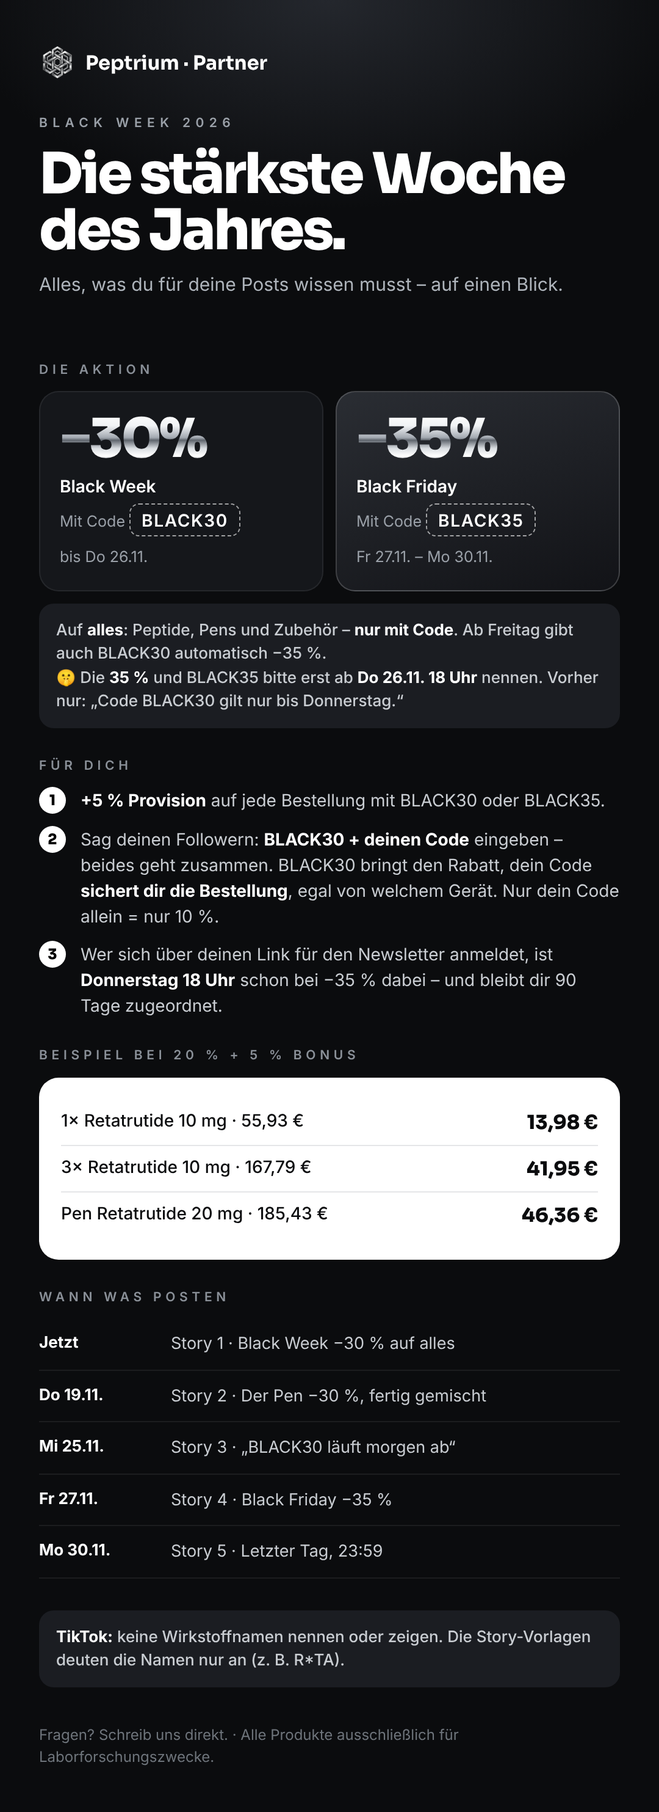
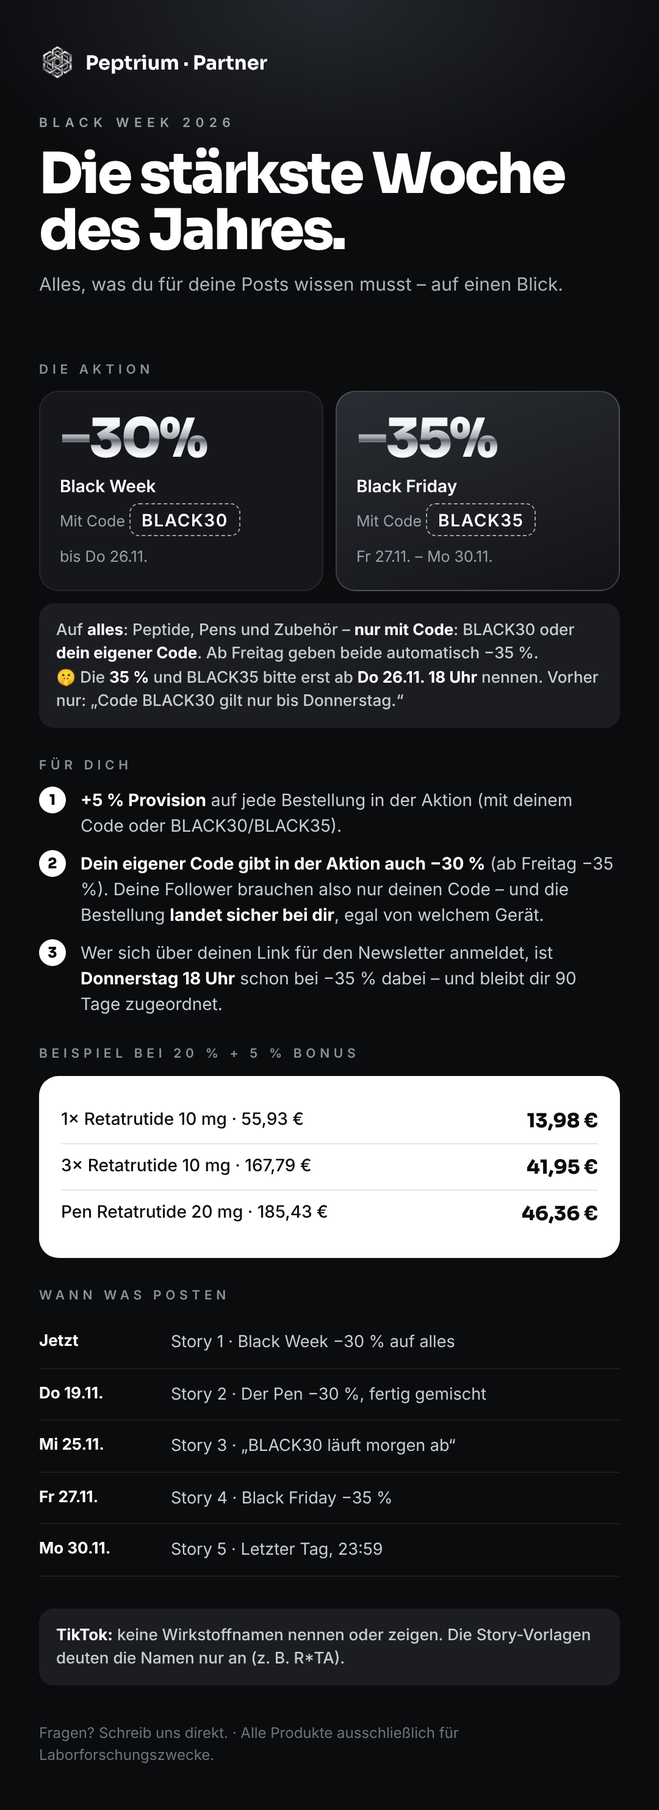
Black Week: Partner-Codes geben Aktionsrabatt
Claude-Session: https://claude.ai/code/session_011YY7DBkbr5BcFGKyLoSbVN

Changed region(s): [[0.1222, 0.4345, 0.9472, 0.5587], [0.0917, 0.3414, 0.8556, 0.4035], [0.0611, 0.4345, 0.0917, 0.4966]]

diff --git a/drafts/blackweek-2026-11-16/partner/info.html b/drafts/blackweek-2026-11-16/partner/info.html
@@ -23,8 +23,8 @@ h1{font:800 46px/1 Sora;letter-spacing:-.04em;margin-top:12px}
 </style></head><body>
 <div class="hd"><div class="lg"><img src="logo.png">Peptrium · Partner</div><div class="ey">BLACK WEEK 2026</div><h1>Die stärkste Woche<br>des Jahres.</h1><div class="sub">Alles, was du für deine Posts wissen musst – auf einen Blick.</div></div>
 <div class="sec"><h2>DIE AKTION</h2><div class="ph"><div class="c"><div class="n chrome">−30%</div><b>Black Week</b><span>Mit Code <b style="display:inline-block;margin:6px 0 4px;border:1.5px dashed rgba(255,255,255,.6);border-radius:8px;padding:4px 9px;color:#fff;letter-spacing:.06em">BLACK30</b><br>bis Do 26.11.</span></div><div class="c hot"><div class="n chrome">−35%</div><b>Black Friday</b><span>Mit Code <b style="display:inline-block;margin:6px 0 4px;border:1.5px dashed rgba(255,255,255,.6);border-radius:8px;padding:4px 9px;color:#fff;letter-spacing:.06em">BLACK35</b><br>Fr 27.11. – Mo 30.11.</span></div></div>
-<div class="note">Auf <b>alles</b>: Peptide, Pens und Zubehör – <b>nur mit Code</b>. Ab Freitag gibt auch BLACK30 automatisch −35 %.<br>🤫 Die <b>35 %</b> und BLACK35 bitte erst ab <b>Do 26.11. 18 Uhr</b> nennen. Vorher nur: „Code BLACK30 gilt nur bis Donnerstag.“</div></div>
-<div class="sec"><h2>FÜR DICH</h2><div class="li"><div><i>1</i><span><b>+5 % Provision</b> auf jede Bestellung mit BLACK30 oder BLACK35.</span></div><div><i>2</i><span>Sag deinen Followern: <b>BLACK30 + deinen Code</b> eingeben – beides geht zusammen. BLACK30 bringt den Rabatt, dein Code <b>sichert dir die Bestellung</b>, egal von welchem Gerät. Nur dein Code allein = nur 10 %.</span></div><div><i>3</i><span>Wer sich über deinen Link für den Newsletter anmeldet, ist <b>Donnerstag 18 Uhr</b> schon bei −35 % dabei – und bleibt dir 90 Tage zugeordnet.</span></div></div></div>
+<div class="note">Auf <b>alles</b>: Peptide, Pens und Zubehör – <b>nur mit Code</b>: BLACK30 oder <b>dein eigener Code</b>. Ab Freitag geben beide automatisch −35 %.<br>🤫 Die <b>35 %</b> und BLACK35 bitte erst ab <b>Do 26.11. 18 Uhr</b> nennen. Vorher nur: „Code BLACK30 gilt nur bis Donnerstag.“</div></div>
+<div class="sec"><h2>FÜR DICH</h2><div class="li"><div><i>1</i><span><b>+5 % Provision</b> auf jede Bestellung in der Aktion (mit deinem Code oder BLACK30/BLACK35).</span></div><div><i>2</i><span><b>Dein eigener Code gibt in der Aktion auch −30 %</b> (ab Freitag −35 %). Deine Follower brauchen also nur deinen Code – und die Bestellung <b>landet sicher bei dir</b>, egal von welchem Gerät.</span></div><div><i>3</i><span>Wer sich über deinen Link für den Newsletter anmeldet, ist <b>Donnerstag 18 Uhr</b> schon bei −35 % dabei – und bleibt dir 90 Tage zugeordnet.</span></div></div></div>
 <div class="sec"><h2>BEISPIEL BEI 20 % + 5 % BONUS</h2><div class="ex"><div class="r"><span>1× Retatrutide 10 mg · 55,93 €</span><b>13,98 €</b></div><div class="r"><span>3× Retatrutide 10 mg · 167,79 €</span><b>41,95 €</b></div><div class="r"><span>Pen Retatrutide 20 mg · 185,43 €</span><b>46,36 €</b></div></div></div>
 <div class="sec tl"><h2>WANN WAS POSTEN</h2><div class="r"><span>Jetzt</span><div>Story 1 · Black Week −30 % auf alles</div></div><div class="r"><span>Do 19.11.</span><div>Story 2 · Der Pen −30 %, fertig gemischt</div></div><div class="r"><span>Mi 25.11.</span><div>Story 3 · „BLACK30 läuft morgen ab“</div></div><div class="r"><span>Fr 27.11.</span><div>Story 4 · Black Friday −35 %</div></div><div class="r"><span>Mo 30.11.</span><div>Story 5 · Letzter Tag, 23:59</div></div></div>
 <div class="sec"><div class="note"><b>TikTok:</b> keine Wirkstoffnamen nennen oder zeigen. Die Story-Vorlagen deuten die Namen nur an (z. B. R*TA).</div></div>

diff --git a/drafts/blackweek-2026-11-16/plugin/sp-blackweek.php b/drafts/blackweek-2026-11-16/plugin/sp-blackweek.php
@@ -59,14 +59,29 @@ function sp_bw_code_pct($code) {
     if ($code === 'black30') return $ph === 'bf' ? 35 : 30;
     return 0;
 }
-/** Prozent des BW-Codes im Warenkorb (0 = kein Code drin). */
-function sp_bw_cart_pct($cart = null) {
+/** 2026-11-18 (user): Partner-Codes (Coupon-Meta _sp_affiliate_id) geben in der Aktion denselben Rabatt wie BLACK30. */
+function sp_bw_is_partner_code($c) {
+    static $m = [];
+    $code = wc_strtolower(is_object($c) ? $c->get_code() : (string) $c);
+    if (!isset($m[$code])) { $id = wc_get_coupon_id_by_code($code); $m[$code] = $id && get_post_meta($id, '_sp_affiliate_id', true) && get_post_meta($id, 'discount_type', true) === 'percent'; }
+    return $m[$code];
+}
+/** Aktions-Prozent eines Codes (BLACK30/35 oder Partner-Code), 0 = kein Aktionscode. */
+function sp_bw_type_pct($c) {
+    if (sp_bw_is_code($c)) return sp_bw_code_pct(is_object($c) ? $c->get_code() : $c);
+    if (sp_bw_is_partner_code($c)) return sp_bw_code_pct('black30');
+    return 0;
+}
+/** [Prozent, Code] des besten Aktionscodes im Warenkorb. */
+function sp_bw_cart_best($cart = null) {
     if (!$cart && function_exists('WC') && WC()->cart) $cart = WC()->cart;
-    if (!$cart) return 0;
-    $best = 0;
-    foreach ($cart->get_applied_coupons() as $c) if (sp_bw_is_code($c)) $best = max($best, sp_bw_code_pct($c));
+    $best = [0, ''];
+    if (!$cart) return $best;
+    foreach ($cart->get_applied_coupons() as $c) { $p = sp_bw_type_pct($c); if ($p > $best[0]) $best = [$p, $c]; }
     return $best;
 }
+/** Prozent des Aktionscodes im Warenkorb (0 = kein Code drin). */
+function sp_bw_cart_pct($cart = null) { return sp_bw_cart_best($cart)[0]; }
 function sp_bw_pct() { $p = sp_bw_phase(); return $p === 'bf' ? 35 : ($p === 'bw' ? 30 : 0); }
 function sp_bw_active() { return sp_bw_pct() > 0; }
 
@@ -124,13 +139,16 @@ function sp_bw_is_credit($coupon) {
 }
 add_filter('woocommerce_coupon_get_discount_amount', function ($amount, $discounting, $cart_item, $single, $coupon) {
     if (!is_array($cart_item)) return $amount;
-    if (sp_bw_is_code($coupon)) return sp_bw_item_ok($cart_item) ? $amount : 0;   // BW-Code nicht auf Geschenke/Abo
+    if (sp_bw_type_pct($coupon)) {                       // Aktionscode: nicht auf Geschenke/Abo, nur der beste zählt
+        if (!sp_bw_item_ok($cart_item)) return 0;
+        return wc_strtolower($coupon->get_code()) === wc_strtolower((string) sp_bw_cart_best()[1]) ? $amount : 0;
+    }
     return (sp_bw_cart_pct() && sp_bw_item_ok($cart_item) && !sp_bw_is_credit($coupon)) ? 0 : $amount;
 }, 60, 5);
 /* BW-Codes: Prozent je Phase, Gültigkeit */
 add_filter('woocommerce_coupon_get_amount', function ($amount, $coupon) {
-    if (!sp_bw_is_code($coupon)) return $amount;
-    $p = sp_bw_code_pct($coupon->get_code());
+    if (!sp_bw_is_code($coupon) && !sp_bw_is_partner_code($coupon)) return $amount;
+    $p = sp_bw_type_pct($coupon);
     return $p ?: $amount;
 }, 20, 2);
 add_filter('woocommerce_coupon_is_valid', function ($valid, $coupon) {
@@ -162,8 +180,8 @@ add_action('woocommerce_removed_coupon', function ($code) {
 add_filter('woocommerce_coupon_message', function ($msg, $code, $coupon) {
     if ($code !== WC_Coupon::WC_COUPON_SUCCESS || !$coupon) return $msg;
     if (!empty($GLOBALS['sp_bw_quiet'])) return '';
-    if (sp_bw_is_code($coupon)) return strtoupper($coupon->get_code()) . ' aktiv ✓ – −' . sp_bw_code_pct($coupon->get_code()) . ' % auf alles im Warenkorb.';
-    if (sp_bw_cart_pct() && !sp_bw_is_credit($coupon)) return 'Code gespeichert ✓ – mit dem Black-Week-Code gilt schon −' . sp_bw_cart_pct() . ' %, andere Codes zählen nicht zusätzlich.';
+    if (sp_bw_type_pct($coupon)) return strtoupper($coupon->get_code()) . ' aktiv ✓ – −' . sp_bw_type_pct($coupon) . ' % auf alles im Warenkorb.';
+    if (sp_bw_cart_pct() && !sp_bw_is_credit($coupon)) return 'Code gespeichert ✓ – mit dem Aktionscode gilt schon −' . sp_bw_cart_pct() . ' %, andere Codes zählen nicht zusätzlich.';
     return $msg;
 }, 60, 3);
 

diff --git a/drafts/blackweek-2026-11-16/plugin/sp-blackweek-vorschau.php b/drafts/blackweek-2026-11-16/plugin/sp-blackweek-vorschau.php
@@ -205,13 +205,13 @@ function drawer(){var dr=document.getElementById('sp-cart-drawer');if(!dr)return
  var m=Math.pow(10,(CART.totals||{}).currency_minor_unit||2),r=0,n=0;(CART.items||[]).forEach(function(i){if(+i.prices.price>0){r+=(+i.prices.regular_price)/m*i.quantity;n++;}});
  if(!n){if(box)box.remove();return;}
  var sub=document.getElementById('sp-cd-subtotal-row');if(box&&sub&&box.nextElementSibling!==sub){box.remove();box=null;}if(!box){box=document.createElement('div');box.className='bw-cbox';if(sub)sub.parentNode.insertBefore(box,sub);else it.parentNode.insertBefore(box,it.nextSibling);}
- var h,code=codeIn(CART);
+ var h,code=codeIn(CART);if(!code&&(CART.coupons||[]).length){var dd=(+CART.totals.total_discount+(+CART.totals.total_discount_tax||0))/m;if(dd>=r*PCT/100*0.97)code=String(CART.coupons[0].code).toUpperCase();}
  if(code){var d=(+CART.totals.total_discount+(+CART.totals.total_discount_tax||0))/m;h='<div class="bw-cb ok"><span class="ck">✓</span><div class="tx">'+code+' ist aktiv<small>−'+PCT+' % auf alles'+(d>0?' · du sparst '+fm(d):'')+'</small></div></div>';}
  else{var cur=(+CART.totals.total_items+(+CART.totals.total_items_tax||0)-(+CART.totals.total_discount||0)-(+CART.totals.total_discount_tax||0))/m;h='<div class="bw-cb miss"><div class="tx">Mit Code '+CODE+': '+fm(r*F)+'<small>statt '+fm(cur)+' – Code kopieren und oben bei „Rabattcode“ einfügen</small></div><button type="button" class="ap">Kopieren</button></div>';}
  if(box.dataset.h!==h){box.innerHTML=h;box.dataset.h=h;var b=box.querySelector('.ap');if(b)b.onclick=function(){copyCode();openCouponField();};}}
 /* --- Kasse: Hinweis, falls kein Code --- */
 function checkout(){var bl=document.querySelectorAll('.wp-block-woocommerce-checkout-order-summary-block');if(!bl.length||!window.wp||!wp.data)return;var d;try{d=wp.data.select('wc/store/cart').getCartData();}catch(e){return;}if(!d||!d.items)return;
- var has=!!codeIn(d),m=Math.pow(10,(d.totals||{}).currency_minor_unit||2),r=0;(d.items||[]).forEach(function(i){if(+i.prices.price>0)r+=(+i.prices.regular_price)/m*i.quantity;});
+ var has=!!codeIn(d),m=Math.pow(10,(d.totals||{}).currency_minor_unit||2),r=0;(d.items||[]).forEach(function(i){if(+i.prices.price>0)r+=(+i.prices.regular_price)/m*i.quantity;});if(!has&&(d.coupons||[]).length){var dd=(+(d.totals||{}).total_discount+(+(d.totals||{}).total_discount_tax||0))/m;has=dd>=r*PCT/100*0.97;}
  bl.forEach(function(b){var ft=b.querySelector('.wc-block-components-totals-footer-item');if(!ft)return;var w=ft.closest('.wc-block-components-totals-wrapper');var row=b.querySelector('.bw-co');if(!row&&w){row=document.createElement('div');row.className='bw-co';w.parentNode.insertBefore(row,w);}if(!row)return;
   if(has||r<=0){row.style.display='none';return;}row.style.display='';
   var h='<div><b>Mit Code '+CODE+' nur '+fm(r*F)+'</b><small>für die Artikel statt '+fm(r)+' – Code kopieren und bei „Gutschein hinzufügen“ einfügen.</small></div><button type="button" class="ap">Kopieren</button>';

diff --git a/CLAUDE.md b/CLAUDE.md
@@ -266,7 +266,7 @@ ones with established, understood behavior from this engagement. Run a
 | `sp-monatsbericht.php` | (2026-11-01, live, user: "stimmt alles so, bau es ein") **Peptrium Dashboard → Monatsbericht** (`admin.php?page=sp-monatsbericht`): month chips (from 2026-09), report preview in an iframe, "Per E-Mail senden" (several recipients, last one remembered in `sp_mb_last_email`, log `sp_mb_sent`), Fixkosten per month (option `sp_mb_fix` [Y-m => amount, note]; empty = 'vor Fixkosten'), optional auto-send on the 1st (option `sp_mb_auto` {on,to}, daily cron `sp_mb_daily` 08:00 Berlin, checks days 1–3, `sp_mb_auto_done`; OFF by default). `sp_mb_data($ym)` counts orders by **date_paid** (processing/completed/refunded, no `_sp_is_test`) via `sp_ek_order_figures()`: revenue/EK/commission/shipping+packaging → Gewinn; previous month comparison; Geld auf dem Konto = revenue − `sp_lager_purchases()` − `sp_aff_transfers` in month − shipping − fix; offen = orders CREATED in the month still on-hold/pending (dupe suspects skipped) + partner balance at month end (commissions paid/unpaid created before month end − transfers before month end); partner table, products by Rohertrag (top 8 + rest, names via `sp_mb_product_label()`, legacy GHK 68 → 1011), customers (new/returning, countries, visitors from wp_sp_stats, newsletter), coupons incl. negative referral fees, daily bars + weekly sums (Halloween days orange). `sp_mb_html($ym)` = email-safe HTML (also mail body). Assumptions confirmed by the user 2026-11-01: DHL 6,19/14,90 + 0,20 packaging, supplier purchases dated 18.10. October 2026: 56 paid orders, 10.946,49 €, Gewinn vor Fixkosten 7.570,75 €. Drafts/generator in `drafts/monatsbericht-2026-11-01/`. |
 | `sp-ausverkauft.php` | (2026-11-03, live, user: "cagri ist ausverkauft … es soll stehen dass das ausverkauft ist") Generic sold-out display for every published product with stock status `outofstock` (not preorders, not 729/745/817; ids via `sp_av_ids()`, transient `sp_av_ids_v1` cleared on stock-status changes). Product page: body class `sp-av-out`, stock line 'Ausverkauft' (red), dark box 'Gerade ausverkauft' + 'Benachrichtigen lassen →' (#sp-nlh), tiers/qty/buy button/addons/Abo toggle/sticky bar/Halloween box hidden. Cards `.sp-pc[data-id]`: red 'Ausverkauft' badge, greyed image, button → grey 'Ausverkauft' link; homepage bestsellers/sets/free-shipping hint already skip out-of-stock items. **Cagrilintid 1051 set to outofstock 2026-11-03** (was instock, backup option `sp_cagri_stock_backup_20261103`). Back in stock = set 'Vorrätig' in wp-admin, nothing else. Copy in `drafts/ausverkauft-2026-11-03/`. |
 | `sp-hausnummer.php` | (2026-11-03, live, user: #3323 bestellt ohne Hausnummer → "checkout anpassen") DE/AT/CH: address_1 label 'Straße und Hausnummer' (`woocommerce_default_address_fields` + country locale), amber hint '⚠ Hausnummer vergessen?' under the field on blur when the street has no digit, and a server block in `woocommerce_store_api_checkout_update_order_from_request` (RouteException `sp_hausnummer`, 400) so an order without a digit in street/address_2 cannot be placed (`sp_hn_ok()`; Packstation 123 passes). Tested via Store API (400 with message) + browser (label, hint appears/disappears). #3323 (id 1143, Birgit, paid, Krümmerstr. without number): Rückfrage-Mail draft `drafts/hausnummer-2026-11-03/mail.html`. |
-| `sp-blackweek.php` + `sp-blackweek-vorschau.php` | (2026-11-17, **LIVE ab Di 17.11. 20:00 Berlin**, user: "heute 20 Uhr starten") **Black Week −30 % / Black Friday −35 % auf ALLES** (Peptide, Pens, Zubehör; nicht 729/745/817, keine Geschenk-/Abo-Zeilen). Option `sp_bw` {start 1794942000, insider 1795712400 (Do 26.11. 18:00), bf 1795734000 (Fr 0:00), end 1796079599 (Mo 30.11. 23:59:59), bonus 5, ea (Insider-Token), off (Notschalter = 1)}. `sp_bw_phase()`: Vorschau-Cookie `sp_bw_pv` (bw/bf) > off > Zeit; Insider-Cookie `sp_bw_ea` (HMAC) ab `insider` = bf. Insider-Link `/?sp_bw=frueh&k=<ea>` → Cookie bis Ende → /alle-produkte/. **Preise:** Katalogpreise bleiben regulär (Anzeige rechnet die Vorschau-JS mit F=0,7/0,65: Banner, Hero-Szene `uploads/sp-bw/scene-bw|bf.webp`, Karten-Pill + Streichpreis, Kaufbox-Box, Kategorie-Block, Popup/#sp-nlh-Texte "Freitag wird noch größer" bis Do 18 Uhr); im Warenkorb `before_calculate_totals` prio 26 → regulär × F (überschreibt Mengenrabatt prio 20; Vorbestellungen vom Regulärpreis), Zeilen-Meta `Black-Week-Rabatt`, Order-Meta `_sp_bw`/`_sp_bw_phase` (auch Store-API-Hook). **Codes**: angenommen (Zuordnung), 0 € auf alle Aktionszeilen außer `_sp_gutschrift`; Erfolgsmeldung "Code gespeichert ✓ – … gilt stattdessen −30 %". Empfehlungs-Rabatt-Fee entfernt (prio 99). Partner +5 % (`slicewp_calculate_commission_amount` prio 31). Seiten-Cache: WP-Cron `sp_bw_purge` an start/bf/end bumpt `sp_pc_gen`. Drawer/Kasse im Live-Modus nur dekoriert (alter Preis = Preis/F, Spar-Zeile aus Store-API regular−price ohne Geschenke; doppelte 'Du sparst'-Zeile ausgeblendet). Halloween `sp_hw` on/deko = 0 (Backup `sp_hw_backup_20261117`). Getestet in der Vorschau via Store API: 3× Reta10 167,79 / GHK 27,93 / Bac 6,93 / Pen20 185,43 = 388,08, Geschenke 200+350 nach bezahltem Betrag, SCHLANK10 angenommen mit 0 €. **Mails:** Entwürfe (8, je eigener Look) in `drafts/blackweek-2026-11-16/entwurf-v2/mails/` + Generatoren `hero/gen_mails.py` (Mail 1) / `hero/gen2.py` (2–8); Omnisend-taugliche Bodies via `mails-omnisend/gen.py` (Tabellen, Hero als Bild `uploads/sp-email/nl-bw1-hero.jpg`). Alle 8 Kampagnen SCHEDULED (Option `sp_bw_mails`: start `6afc96309533d32ec0c3ffde` Di 17.11. 19:00Z alle · pen `6afc9df49533d32ec0c4004a` Do 19.11. 17:00Z · favoriten `6afc9df871868a6709333710` Sa 21.11. 10:00Z · teaser `6afc9dfc71868a6709333712` Mi 25.11. 17:00Z · insider `6afc9e0171868a6709333713` Do 26.11. 17:00Z (Button = Insider-Link) · blackfriday `6afc9e0571868a6709333714` Fr 27.11. 07:00Z · sonntag `6afc9e0971868a6709333716` So 29.11. 10:00Z · letzte `6afc9e0c71868a6709333718` Mo 30.11. 09:00Z); pen/favoriten/sonntag nur an Segment `seg_nb` `6afc9df479ac2d15a1369b78` (subscribed UND kein 'placed order'-Event (origin api) nach 2026-11-17; 113 bei Anlage), Rest an alle. Mails 2–8 = oberer Teil als Bild (`uploads/sp-email/nl-bw-{2-pen,3-fav,4-teaser,5-insider,6-bf,7-so,8-last}.jpg`, aus `hero/m2-*.html` per `hero/clip.js`) + Preislisten/Buttons/Footer als Tabellen-HTML (`mails-omnisend/gen.py` → `<key>.body`, `meta.json`). Testmails aller 8 an shayanskill0. Ändern: POST /campaigns/{id}/restoreToDraft → PUT content → PATCH → schedule → /send. Partner-Paket `drafts/blackweek-2026-11-16/partner/` (Infoblatt, 5 Stories mit angedeuteten Namen, WhatsApp-Text). **Added 2026-11-17 19:55 (user: "mach 1 bis 3"):** (1) line meta `_sp_bw_reg` (regular × qty) at checkout → `sp_bw_order_saving()` → thank-you box `#sp-bw-ty` ('Du hast gespart X €', moved under `#sp-ty-hero`) + dark card in customer on-hold/processing mails; (2)+(3) `sp_bw_mail_props()` = {bw_show block/none, bw_text, bw_code_text} (time-based, empty outside start..end) merged into `sp_cr_omni_props()` (sp-cart-reminder.php) and the subscribe customProperties (sp-omnisend-sync.php, only when a HALLO code exists); Omnisend contents Willkommen `6acd8ff7…660` (note under the code card), Warenkorb 1 `6ad1626d…374` (white row above the Versand line) and Warenkorb 2 `6ad1626d…379` (white box above 'DEIN WARENKORB') use `display:none;display:[[contact.custom_properties.bw_show]]` (empty prop = stays hidden); old content JSON in options `sp_bw_mailbackup_{w1,wk1,wk2}_20261117`; new bodies in `mails-omnisend/new_*.html`. Test order #3340 (id 1235, cancelled, `_sp_is_test`) → box shows 29,91 €. Offen: Bestätigung Pens/Zubehör inkl., 35 % als Überraschung, Partner +5 % (so gebaut = Empfehlung). **2026-11-18:** Cagrilintid 1051 wieder `instock` (Ausverkauft-Anzeige weg); Kampagne 'Wieder da – Cagrilintid' `6afd778f67115c626755877f` (Option `sp_bw_mails['wd_cagri']`, Body `drafts/blackweek-2026-11-16/mails-omnisend/wd.py`, Hero `uploads/sp-email/nl-bw-wd-cagri.jpg` aus `hero/wd-cagri.html`) an alle Abonnenten, 18.11. ~11:05 Berlin. **HALLO-Codes verlängert 2026-11-18 (user):** 41 unbenutzte HALLO-Codes, die bis ~3.12. abgelaufen wären (gaben in der Black Week 0 €), gelten jetzt bis 31.12.2026 23:59 Berlin; alte Ablaufdaten in Option `sp_hallo_exp_backup_20261118` [coupon id => timestamp]; Omnisend-Property `hallo_gueltig_bis` = '31.12.2026' bei allen 41 Kontakten (PATCH /api/contacts/{id}; GET ?email= liefert `contacts[].id`). **UMGESTELLT 2026-11-18 ~16:35 Berlin auf CODE (user):** Rabatt nur noch mit Gutschein **BLACK30** (id 1243) bis Do / **BLACK35** (id 1244, gültig ab `insider` Do 18:00 bzw. Fr) — echte WC-Prozent-Coupons (excl. 729/745/817, nicht individual_use, Meta `_sp_bw_code`), Prozent per `woocommerce_coupon_get_amount` = `sp_bw_code_pct()` (BLACK30 gibt ab Fr automatisch 35 %), Gültigkeit per `woocommerce_coupon_is_valid` ("noch nicht aktiv" / außerhalb 17.–30.11.). `sp_bw_cart_pct()` = % des BW-Codes im Warenkorb: NUR dann Preis = Normalpreis (Mengenrabatt aus) prio 26, andere Codes 0 € (außer `_sp_gutschrift`), Empfehlungs-Rabatt raus, Partner +5 %, Zeilen-/Order-Meta. Ohne Code = normale Shop-Regeln. Kombinierbar mit Einzel-Codes (Filter `woocommerce_apply_individual_use_coupon`/`_with_individual_use_coupon`), nur ein BW-Code gleichzeitig. **Auto-Einlösen:** Cookie `sp_bw_code` (gesetzt per `?bw=1`, Mail-Links `utm_campaign=blackweek-*` oder `wieder-da-cagri`, Insider-Link → BLACK35, Pop-up-Button) → `sp_bw_maybe_apply()` auf `woocommerce_add_to_cart` + `wp_loaded`, nicht mehr nachdem der Kunde den Code entfernt hat (Session `sp_bw_rm`). Bestellungen 17.11. 20:00–18.11. 16:35 behielten den automatischen Rabatt (user OK). Anzeige (`sp-blackweek-vorschau.php`, jetzt auch live): Leiste oben mit Code + Kopieren, Hero 'auf alles – mit Code' + Code-Ticket + 'Code aktivieren & shoppen' (/alle-produkte/?bw=1), Karten reduzierter Preis + 'mit Code BLACK30', Kategorie-/Kaufbox-Block mit Code, Warenkorb `.bw-cbox` ('BLACK30 ist aktiv ✓' bzw. gelb 'Code vergessen? Jetzt anwenden' → Store API apply-coupon; Cart-Daten über einen fetch-Wrapper), Kasse gelbe Zeile mit `wp.data…applyCoupon`; das Newsletter-Pop-up zeigt während der Aktion zuerst den Code (Ticket + Kopieren + Countdown), Newsletter als 2. Button, Verzögerung 8 s statt 18 s (sp-newsletter-popup.php). **KEIN Hinweis auf 35 %/Freitag vor Do 18 Uhr (user: sonst warten die Leute).** Getestet Store API: 3× Reta10 ohne Code 215,73 (Mengenrabatt, Kit), BLACK30 167,79 (Kit weg, Basis = gezahlter Betrag), BLACK35 abgelehnt, +SCHLANK10 0 €, Mail-Link-Cookie → Code automatisch; Browser mobil OK. Mail-Entwürfe mit Code-Block (`codeblock()` in mails-omnisend/gen.py), neuer Mi-Teaser 'BLACK30 läuft morgen ab' (`nl-bw-4-ablauf.jpg`, hero/ablauf.html), Bilder `nl-bw-3-fav-v3.jpg`/`nl-bw-6-bf-v3.jpg` (vorher 'schon reduziert'/'KEIN CODE NÖTIG' eingebrannt) — **user OK 2026-11-18: in alle 7 geplanten Kampagnen getauscht** (restoreToDraft → PUT Body → PATCH Betreff/Name + gleiche scheduledAt → /send; alte Inhalte in Optionen `sp_bw_mailbackup_<key>_20261118`; Status überall `scheduled`, Zeiten/Zielgruppen unverändert; Testmails an shayanskill0; Teaser jetzt 'Morgen läuft BLACK30 ab'). Partner-Paket auf Code umgestellt (`partner/`: Infoblatt, Stories 1–5 mit Code-Chip, Story 3 neu 'BLACK30 läuft morgen ab', WhatsApp-Text: 'BLACK30 + deinen Code eingeben'; alte Version in `partner/v1-ohne-code/`). Warenkorb-Hinweis ohne Code steht direkt über der Zwischensumme: 'Mit Code BLACK30: X € statt Y €' + 'Einlösen' (Kasse: 'Mit Code BLACK30 nur X € …') — user fand Karten (reduziert) vs. Warenkorb (voll) verwirrend. **2026-11-18 später (user): Kunden sollen den Code SELBST eingeben/einfügen (das 'animiert' zum Kauf) → kein automatisches Einlösen mehr** (`sp_bw_maybe_apply()` returnt sofort; Cookie wird noch gesetzt, aber nicht genutzt). Alle Buttons kopieren nur: Pop-up/Hero 'Code kopieren & shoppen', Warenkorb-Hinweis 'Kopieren' (+ öffnet das Rabattcode-Feld und fokussiert es), Kasse 'Kopieren' (+ öffnet 'Gutschein hinzufügen'). Mails: Hinweis 'Kopiere den Code und füge ihn im Warenkorb bei „Rabattcode“ ein.', Buttons ohne 'Code einlösen' — erneut in alle 7 Kampagnen getauscht (Backups `sp_bw_mailbackup_<key>_20261118b`). Optische Animationen wurden kurz gebaut und sofort wieder entfernt (user meinte 'animieren' = motivieren). |
+| `sp-blackweek.php` + `sp-blackweek-vorschau.php` | (2026-11-17, **LIVE ab Di 17.11. 20:00 Berlin**, user: "heute 20 Uhr starten") **Black Week −30 % / Black Friday −35 % auf ALLES** (Peptide, Pens, Zubehör; nicht 729/745/817, keine Geschenk-/Abo-Zeilen). Option `sp_bw` {start 1794942000, insider 1795712400 (Do 26.11. 18:00), bf 1795734000 (Fr 0:00), end 1796079599 (Mo 30.11. 23:59:59), bonus 5, ea (Insider-Token), off (Notschalter = 1)}. `sp_bw_phase()`: Vorschau-Cookie `sp_bw_pv` (bw/bf) > off > Zeit; Insider-Cookie `sp_bw_ea` (HMAC) ab `insider` = bf. Insider-Link `/?sp_bw=frueh&k=<ea>` → Cookie bis Ende → /alle-produkte/. **Preise:** Katalogpreise bleiben regulär (Anzeige rechnet die Vorschau-JS mit F=0,7/0,65: Banner, Hero-Szene `uploads/sp-bw/scene-bw|bf.webp`, Karten-Pill + Streichpreis, Kaufbox-Box, Kategorie-Block, Popup/#sp-nlh-Texte "Freitag wird noch größer" bis Do 18 Uhr); im Warenkorb `before_calculate_totals` prio 26 → regulär × F (überschreibt Mengenrabatt prio 20; Vorbestellungen vom Regulärpreis), Zeilen-Meta `Black-Week-Rabatt`, Order-Meta `_sp_bw`/`_sp_bw_phase` (auch Store-API-Hook). **Codes**: angenommen (Zuordnung), 0 € auf alle Aktionszeilen außer `_sp_gutschrift`; Erfolgsmeldung "Code gespeichert ✓ – … gilt stattdessen −30 %". Empfehlungs-Rabatt-Fee entfernt (prio 99). Partner +5 % (`slicewp_calculate_commission_amount` prio 31). Seiten-Cache: WP-Cron `sp_bw_purge` an start/bf/end bumpt `sp_pc_gen`. Drawer/Kasse im Live-Modus nur dekoriert (alter Preis = Preis/F, Spar-Zeile aus Store-API regular−price ohne Geschenke; doppelte 'Du sparst'-Zeile ausgeblendet). Halloween `sp_hw` on/deko = 0 (Backup `sp_hw_backup_20261117`). Getestet in der Vorschau via Store API: 3× Reta10 167,79 / GHK 27,93 / Bac 6,93 / Pen20 185,43 = 388,08, Geschenke 200+350 nach bezahltem Betrag, SCHLANK10 angenommen mit 0 €. **Mails:** Entwürfe (8, je eigener Look) in `drafts/blackweek-2026-11-16/entwurf-v2/mails/` + Generatoren `hero/gen_mails.py` (Mail 1) / `hero/gen2.py` (2–8); Omnisend-taugliche Bodies via `mails-omnisend/gen.py` (Tabellen, Hero als Bild `uploads/sp-email/nl-bw1-hero.jpg`). Alle 8 Kampagnen SCHEDULED (Option `sp_bw_mails`: start `6afc96309533d32ec0c3ffde` Di 17.11. 19:00Z alle · pen `6afc9df49533d32ec0c4004a` Do 19.11. 17:00Z · favoriten `6afc9df871868a6709333710` Sa 21.11. 10:00Z · teaser `6afc9dfc71868a6709333712` Mi 25.11. 17:00Z · insider `6afc9e0171868a6709333713` Do 26.11. 17:00Z (Button = Insider-Link) · blackfriday `6afc9e0571868a6709333714` Fr 27.11. 07:00Z · sonntag `6afc9e0971868a6709333716` So 29.11. 10:00Z · letzte `6afc9e0c71868a6709333718` Mo 30.11. 09:00Z); pen/favoriten/sonntag nur an Segment `seg_nb` `6afc9df479ac2d15a1369b78` (subscribed UND kein 'placed order'-Event (origin api) nach 2026-11-17; 113 bei Anlage), Rest an alle. Mails 2–8 = oberer Teil als Bild (`uploads/sp-email/nl-bw-{2-pen,3-fav,4-teaser,5-insider,6-bf,7-so,8-last}.jpg`, aus `hero/m2-*.html` per `hero/clip.js`) + Preislisten/Buttons/Footer als Tabellen-HTML (`mails-omnisend/gen.py` → `<key>.body`, `meta.json`). Testmails aller 8 an shayanskill0. Ändern: POST /campaigns/{id}/restoreToDraft → PUT content → PATCH → schedule → /send. Partner-Paket `drafts/blackweek-2026-11-16/partner/` (Infoblatt, 5 Stories mit angedeuteten Namen, WhatsApp-Text). **Added 2026-11-17 19:55 (user: "mach 1 bis 3"):** (1) line meta `_sp_bw_reg` (regular × qty) at checkout → `sp_bw_order_saving()` → thank-you box `#sp-bw-ty` ('Du hast gespart X €', moved under `#sp-ty-hero`) + dark card in customer on-hold/processing mails; (2)+(3) `sp_bw_mail_props()` = {bw_show block/none, bw_text, bw_code_text} (time-based, empty outside start..end) merged into `sp_cr_omni_props()` (sp-cart-reminder.php) and the subscribe customProperties (sp-omnisend-sync.php, only when a HALLO code exists); Omnisend contents Willkommen `6acd8ff7…660` (note under the code card), Warenkorb 1 `6ad1626d…374` (white row above the Versand line) and Warenkorb 2 `6ad1626d…379` (white box above 'DEIN WARENKORB') use `display:none;display:[[contact.custom_properties.bw_show]]` (empty prop = stays hidden); old content JSON in options `sp_bw_mailbackup_{w1,wk1,wk2}_20261117`; new bodies in `mails-omnisend/new_*.html`. Test order #3340 (id 1235, cancelled, `_sp_is_test`) → box shows 29,91 €. Offen: Bestätigung Pens/Zubehör inkl., 35 % als Überraschung, Partner +5 % (so gebaut = Empfehlung). **2026-11-18:** Cagrilintid 1051 wieder `instock` (Ausverkauft-Anzeige weg); Kampagne 'Wieder da – Cagrilintid' `6afd778f67115c626755877f` (Option `sp_bw_mails['wd_cagri']`, Body `drafts/blackweek-2026-11-16/mails-omnisend/wd.py`, Hero `uploads/sp-email/nl-bw-wd-cagri.jpg` aus `hero/wd-cagri.html`) an alle Abonnenten, 18.11. ~11:05 Berlin. **HALLO-Codes verlängert 2026-11-18 (user):** 41 unbenutzte HALLO-Codes, die bis ~3.12. abgelaufen wären (gaben in der Black Week 0 €), gelten jetzt bis 31.12.2026 23:59 Berlin; alte Ablaufdaten in Option `sp_hallo_exp_backup_20261118` [coupon id => timestamp]; Omnisend-Property `hallo_gueltig_bis` = '31.12.2026' bei allen 41 Kontakten (PATCH /api/contacts/{id}; GET ?email= liefert `contacts[].id`). **UMGESTELLT 2026-11-18 ~16:35 Berlin auf CODE (user):** Rabatt nur noch mit Gutschein **BLACK30** (id 1243) bis Do / **BLACK35** (id 1244, gültig ab `insider` Do 18:00 bzw. Fr) — echte WC-Prozent-Coupons (excl. 729/745/817, nicht individual_use, Meta `_sp_bw_code`), Prozent per `woocommerce_coupon_get_amount` = `sp_bw_code_pct()` (BLACK30 gibt ab Fr automatisch 35 %), Gültigkeit per `woocommerce_coupon_is_valid` ("noch nicht aktiv" / außerhalb 17.–30.11.). `sp_bw_cart_pct()` = % des BW-Codes im Warenkorb: NUR dann Preis = Normalpreis (Mengenrabatt aus) prio 26, andere Codes 0 € (außer `_sp_gutschrift`), Empfehlungs-Rabatt raus, Partner +5 %, Zeilen-/Order-Meta. Ohne Code = normale Shop-Regeln. Kombinierbar mit Einzel-Codes (Filter `woocommerce_apply_individual_use_coupon`/`_with_individual_use_coupon`), nur ein BW-Code gleichzeitig. **Auto-Einlösen:** Cookie `sp_bw_code` (gesetzt per `?bw=1`, Mail-Links `utm_campaign=blackweek-*` oder `wieder-da-cagri`, Insider-Link → BLACK35, Pop-up-Button) → `sp_bw_maybe_apply()` auf `woocommerce_add_to_cart` + `wp_loaded`, nicht mehr nachdem der Kunde den Code entfernt hat (Session `sp_bw_rm`). Bestellungen 17.11. 20:00–18.11. 16:35 behielten den automatischen Rabatt (user OK). Anzeige (`sp-blackweek-vorschau.php`, jetzt auch live): Leiste oben mit Code + Kopieren, Hero 'auf alles – mit Code' + Code-Ticket + 'Code aktivieren & shoppen' (/alle-produkte/?bw=1), Karten reduzierter Preis + 'mit Code BLACK30', Kategorie-/Kaufbox-Block mit Code, Warenkorb `.bw-cbox` ('BLACK30 ist aktiv ✓' bzw. gelb 'Code vergessen? Jetzt anwenden' → Store API apply-coupon; Cart-Daten über einen fetch-Wrapper), Kasse gelbe Zeile mit `wp.data…applyCoupon`; das Newsletter-Pop-up zeigt während der Aktion zuerst den Code (Ticket + Kopieren + Countdown), Newsletter als 2. Button, Verzögerung 8 s statt 18 s (sp-newsletter-popup.php). **KEIN Hinweis auf 35 %/Freitag vor Do 18 Uhr (user: sonst warten die Leute).** Getestet Store API: 3× Reta10 ohne Code 215,73 (Mengenrabatt, Kit), BLACK30 167,79 (Kit weg, Basis = gezahlter Betrag), BLACK35 abgelehnt, +SCHLANK10 0 €, Mail-Link-Cookie → Code automatisch; Browser mobil OK. Mail-Entwürfe mit Code-Block (`codeblock()` in mails-omnisend/gen.py), neuer Mi-Teaser 'BLACK30 läuft morgen ab' (`nl-bw-4-ablauf.jpg`, hero/ablauf.html), Bilder `nl-bw-3-fav-v3.jpg`/`nl-bw-6-bf-v3.jpg` (vorher 'schon reduziert'/'KEIN CODE NÖTIG' eingebrannt) — **user OK 2026-11-18: in alle 7 geplanten Kampagnen getauscht** (restoreToDraft → PUT Body → PATCH Betreff/Name + gleiche scheduledAt → /send; alte Inhalte in Optionen `sp_bw_mailbackup_<key>_20261118`; Status überall `scheduled`, Zeiten/Zielgruppen unverändert; Testmails an shayanskill0; Teaser jetzt 'Morgen läuft BLACK30 ab'). Partner-Paket auf Code umgestellt (`partner/`: Infoblatt, Stories 1–5 mit Code-Chip, Story 3 neu 'BLACK30 läuft morgen ab', WhatsApp-Text: 'BLACK30 + deinen Code eingeben'; alte Version in `partner/v1-ohne-code/`). Warenkorb-Hinweis ohne Code steht direkt über der Zwischensumme: 'Mit Code BLACK30: X € statt Y €' + 'Einlösen' (Kasse: 'Mit Code BLACK30 nur X € …') — user fand Karten (reduziert) vs. Warenkorb (voll) verwirrend. **2026-11-18 später (user): Kunden sollen den Code SELBST eingeben/einfügen (das 'animiert' zum Kauf) → kein automatisches Einlösen mehr** (`sp_bw_maybe_apply()` returnt sofort; Cookie wird noch gesetzt, aber nicht genutzt). Alle Buttons kopieren nur: Pop-up/Hero 'Code kopieren & shoppen', Warenkorb-Hinweis 'Kopieren' (+ öffnet das Rabattcode-Feld und fokussiert es), Kasse 'Kopieren' (+ öffnet 'Gutschein hinzufügen'). Mails: Hinweis 'Kopiere den Code und füge ihn im Warenkorb bei „Rabattcode“ ein.', Buttons ohne 'Code einlösen' — erneut in alle 7 Kampagnen getauscht (Backups `sp_bw_mailbackup_<key>_20261118b`). Optische Animationen wurden kurz gebaut und sofort wieder entfernt (user meinte 'animieren' = motivieren). **Partner-Codes = Aktionscodes (2026-11-18, user):** jeder Prozent-Coupon mit Meta `_sp_affiliate_id` (NOR10, SAM10, SCHLANK10, EINFACH, NICKI10, LEEON10, SHA10, TES10…) gibt in der Aktion denselben Rabatt wie BLACK30 (30 %, ab Fr 35 %) — `sp_bw_is_partner_code()`, `sp_bw_type_pct()`, `sp_bw_cart_best()`; Betrag per `woocommerce_coupon_get_amount`; mehrere Aktionscodes kombinierbar, nur der beste rabattiert (die anderen 0 €, Zuordnung bleibt). Getestet: 3× Reta10 + SCHLANK10 = 167,79; + BLACK30 → weiter 167,79. Drawer/Kasse erkennen den aktiven Code über die Rabatthöhe. Partner-Infoblatt + WhatsApp-Text: 'Dein eigener Code gibt auch −30 %'. Partner-LINK allein (ohne Code) gibt weiter nur den normalen 10-%-Empfehlungs-Rabatt. |
 | `sp-blackweek-vorschau.php` | (2026-11-17, live, PREVIEW ONLY) **Black-Week-Look zum Ansehen** (Spotlight-Stil: schwarz/chrom, kein Rot; user rejected the first red draft as cheap). Only with cookie `sp_bw_pv` (bw/bf, 24 h) set by `/?sp_bw=vorschau&k=<option sp_bwv_token>` (`&p=bf` = Black Friday look), `/?sp_bw=aus` ends it; cookie bypasses the page cache (+ DONOTCACHEPAGE). Purely visual JS (every 800 ms, idempotent via `data-bw-set`): top banner, mobile homepage hero replaced by `uploads/sp-bw/scene-bw|bf.webp` (text-free spotlight scene, 780×1620) + live text/countdown, cards (white −30 % pill, strike price), category strip, buybox box, drawer bar, checkout row. Real cart/order totals stay at normal prices. Drafts/mockups + generators in `drafts/blackweek-2026-11-16/` (hero/a2.html = chosen design 'A ohne Pen', entwurf-v2/ = 9 images, phone gallery artifact https://claude.ai/artifact/CheK4QovTqJpUk3WEFC3nj). Code rule decided: all coupons can be entered + attribute (partner/tracking) but give 0 € during the action, except `_sp_gutschrift` credit codes. Open: start date, Pens/Zubehör included?, 35 % as insider surprise, partner +5 %. |
 | `sp-robots.php` | (2026-10-27, live) robots.txt additions via `robots_txt` filter (prio 99): Disallow `/mein-konto/?`, `/*?redirect=`, `/wp-json/`, `/*?wc-ajax=`, `/*?s=`, `/*?sp_`, `/warenkorb/`, `/kasse/`, `/l/`, `/go/`. Reason: Googlebot was caught in a crawl trap — `sp-account-header-icon.php` built the login link as `/mein-konto/?redirect=<full current URL incl. query>`, so on /mein-konto/?redirect=… it nested endlessly (logs 20.–22.10.). The icon now uses only the PATH (urlencoded), plain /mein-konto/ on account pages, and `rel="nofollow"`. Googlebot volume: ~35–45 hits/day 20.–23.10., then 1–13/day (normal once indexed); the sitemap IS submitted in GSC (user 2026-10-27; logs show Googlebot fetching the page/product/category sitemaps) — older notes saying it still has to be submitted are outdated; www → non-www 301s are expected; non-200 'Googlebot' hits on secrets/.json files are fake scanners. |
 | `sp-age-gate.php` | Site-wide 18+/research entry gate (client-side overlay, cookie `sp_age_gate` 365 d, closes the Real Cookie Banner `<dialog>` once while open and reopens it after confirming; `#sp-gate-title` is an h2). **Redesign LIVE 2026-10-28 (user picked draft G1 from `drafts/age-gate-2026-10-28/`, "B oben + D unten, zentraler"):** chrome logo (attachment 374, `medium`) + 'PEPTRIUM' wordmark floating over the blurred live page (backdrop blur 14px), below it a dark frosted-glass card (`.sp-gate-card`, backdrop blur 22px) centred on screen: eyebrow 'Nur für Laborforschung', 'Bevor es losgeht', short text, TWO switch rows (`.sp-gate-check` with hidden checkbox `[data-gate-req]` + `.sp-gate-switch`), white button 'Weiter zum Shop' (disabled/translucent until both are on), AGB · Forschungsnutzung. JS unchanged. Other code only uses the ids `#sp-gate`/`sp-gate-locked` (sp-newsletter-popup, sp-screenshot-mode). Tested mobile + desktop: disabled → enabled → cookie set, gate closes, no overflow. Copy of the live file in the drafts folder. |
